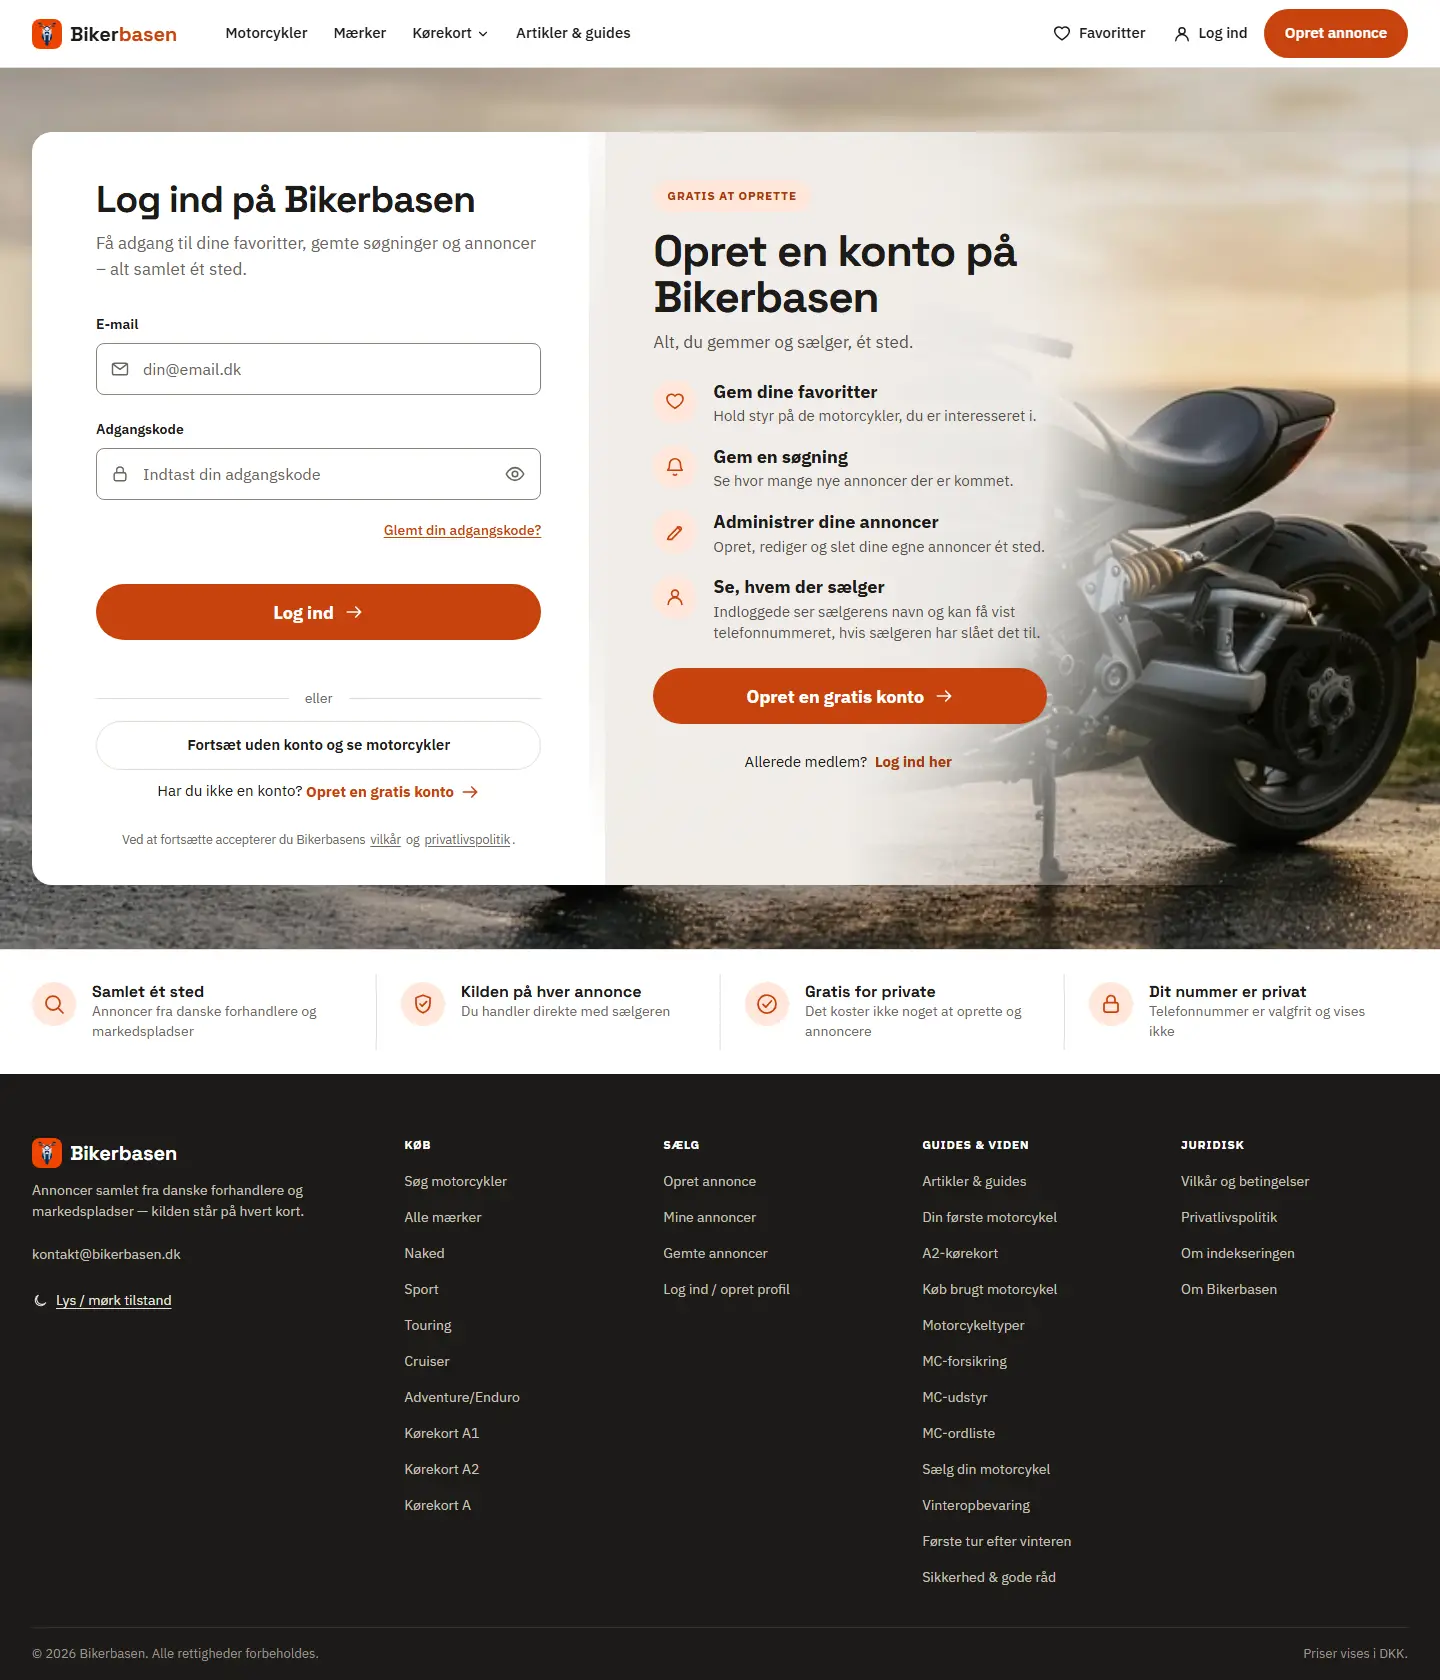
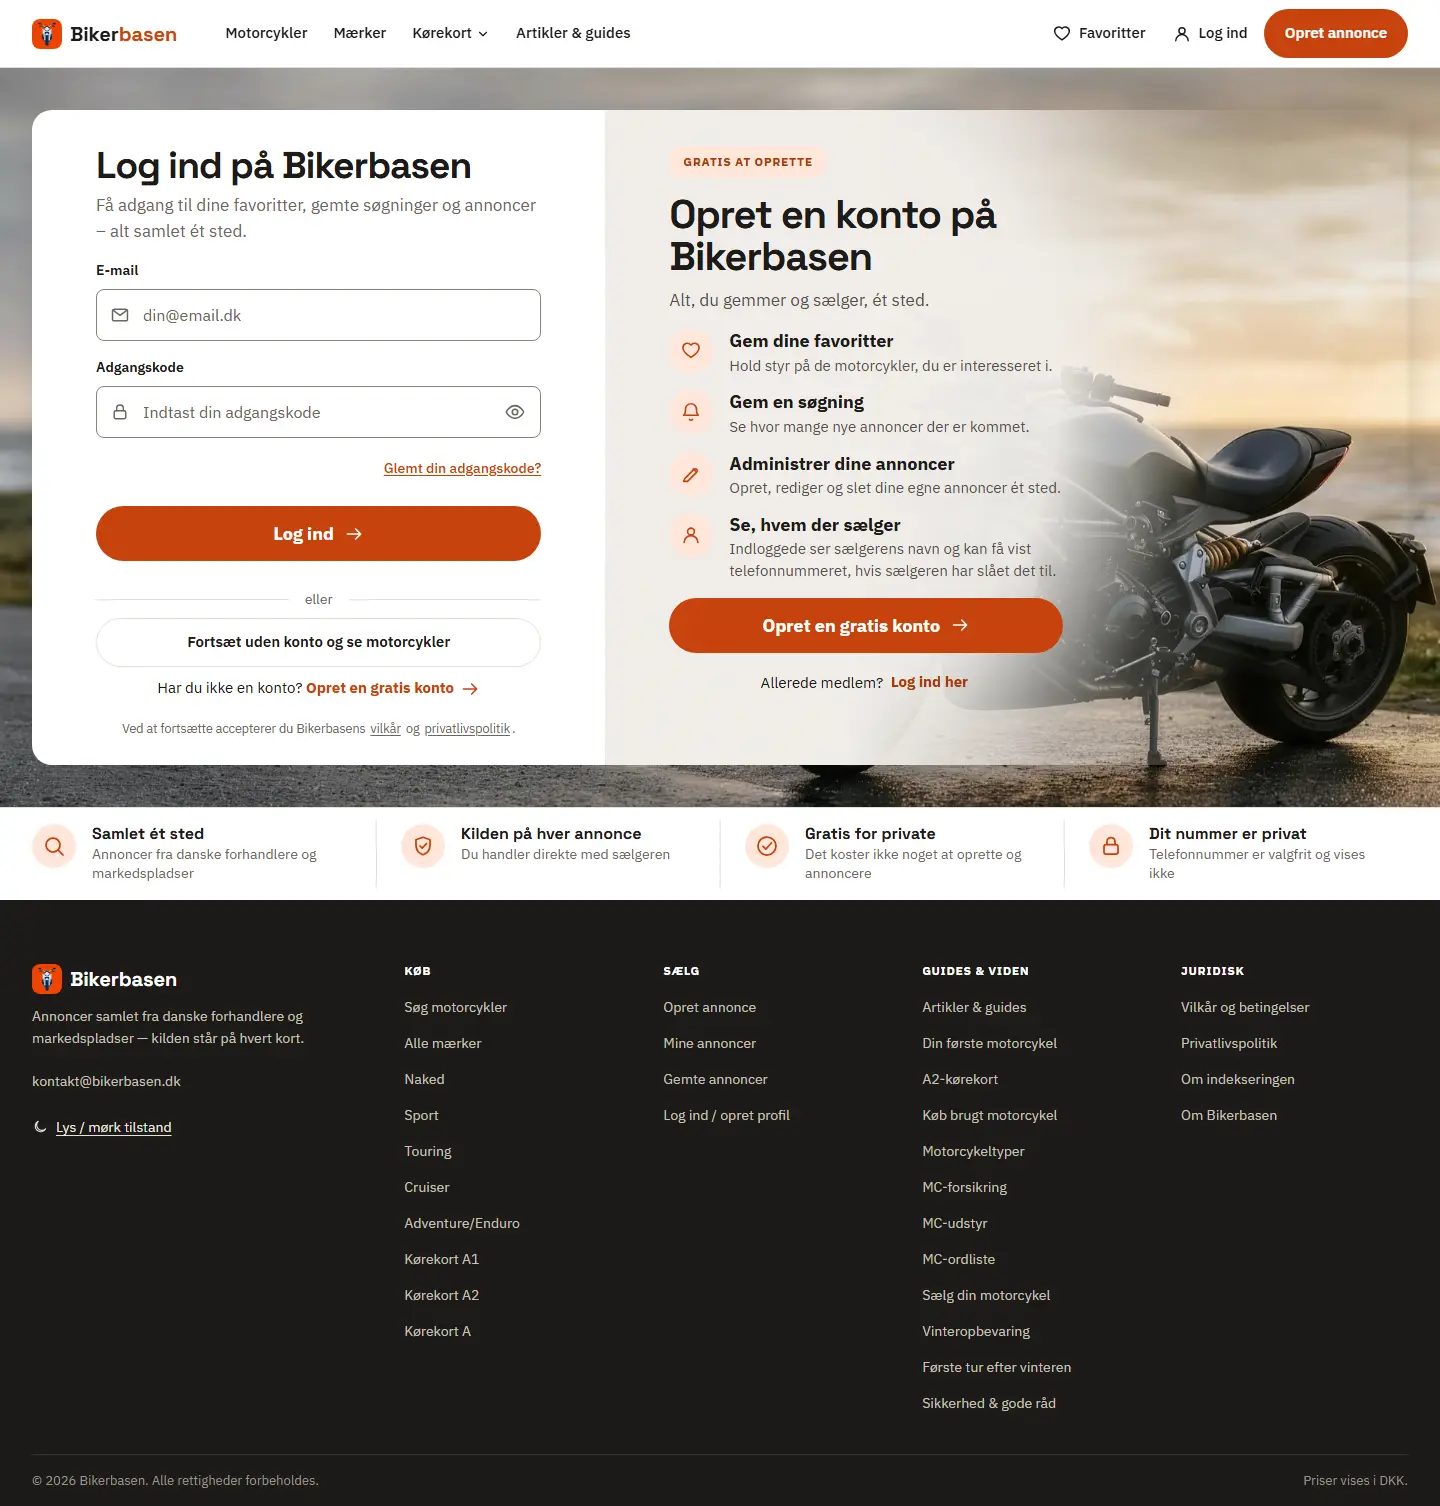
docs: agent5 iteration 2-3, billeder (5,4 MB)

diff --git a/docs/review/gauntlet/visual/agent5-brugere.md b/docs/review/gauntlet/visual/agent5-brugere.md
@@ -43,3 +43,35 @@ Grønt: w9-saelger 33, w7-funktion 34, login-fejl, mine-annoncer, favoritter, da
 
 ## Selv-score (ikke godkendelse; Critic vurderer)
 Guide ca. 4,2 · Login ca. 4,3 · Mine annoncer ca. 4,2.
+
+---
+
+# Iteration 2-3 (efter blind Critic: AFVIS 6 / 6,5 / 5,5)
+
+Critic-rapport: `docs/review/gauntlet/visual/critic-agent5.md` (i hovedrepoet). Billeder: `sbs-guide/mine/login.webp` (mockup | efter, 1440), `efter-guide-saelg-1440-{l,m}`, `efter-guide-saelg-390-m`, `efter-login-{1440-l,1440-m,390-l,390-m}`, `efter-mine-{1440-l,1440-m,390-l,390-m}`.
+
+## Acceptkriterier (iteration 2-3)
+K6 Guide-hero lysere/varmere (foto løftet, scrim kun bag tekst), fed H1, hvid tekst >= 4,5:1; hero <= 340 px ved 1440.
+K7 Brødtekst og indholdsfortegnelse flugter (samme højre kant); sticky mini-TOC i højre spalte (>= 1024 px) med aktivt afsnit (scroll-spy); mobil uændret sammenklappelig; >= 2 callouts og >= 2 fotos pr. guide; callouts kun fra guidens eget Kort fortalt.
+K8 Login 1440x900: hele kortet OG fordelsstrimlen i første skærm, skarpt foto (ingen opskalering af 1600 px-filen), fed H1; stadig ingen social login/120.000+/beskeder.
+K9 Mine annoncer: 5 statistikkort (kun ægte: aktive, kladde, favoritter, på pause, søgeagenter) med tal >= 32 px; tællere med ikon; ægte tip-liste i stedet for pynteform; header "Min profil" + "Log ud" (ikke "Navn · Log ud"); privat dashboard uden blindgyde; `?tab=aktive|kladder|annoncer|gemte|soegeagenter|profil` åbner den rette fane.
+K10 0 overflow 320-1440 lys+mørk, tap-mål >= 40, smoke strikt CLS < 0,05.
+
+## Afvigelser fundet (iteration 2) og status
+1 Hero mørk og underbelyst (guide, mine): foto `brightness(1.2) saturate(1.1)` + lysere scrim på desktop; mobil bevarer kraftigere scrim (kontrast) — LUKKET (mockuppens lyse stemning nås ikke fuldt: mangler rytterfoto).
+2 Brødtekst 840 vs TOC 935 / tom højre kolonne: artikel nu fuld kolonnebredde (afsnit 72-76 tegn), sticky mini-TOC som sidste modul i højre spalte — LUKKET.
+3 Kun sektion 1 havde moduler: 2 callouts ("Vigtigt", "Tip", hentet ordret fra guidens Kort fortalt, placeret i den sektion med størst ordoverlap) + 2 fotos pr. guide (guidens kortbillede og forsidefotoet) — LUKKET.
+4 Login: sløret foto (1600 px-filen blev opskaleret ca. 1,9x): `sizes="(min-width:960px) 200vw"` vælger 2560-filen, mindre zoom, hele motorcyklen i højre panel; kortet 753 -> 655 px; strimlen slutter ved 900 px ved 1440x900 — LUKKET.
+5 Mine annoncer: flade kort, tællere uden ikoner, "Test · Log ud", pladsholder-illustration, blindgyde i dashboard, `?tab=` — LUKKET (5. kort "På pause" i stedet for "Beskeder"; "Udløber om N dage" findes ikke i data og er IKKE opdigtet).
+6 Fund i egen test: 15 px overflow ved 320 px fra de nye tællere (w9-test fangede det) — rettet (tællere ombrydes under 520 px).
+
+## Ændrede/nye filer (iteration 2-3)
+`scripts/build-guides.js` (`guideTillaeg`, mini-TOC), `css/p-guides.css`, `js/guides.js` (scroll-spy også i mini-TOC), `css/p-login.css`, `login.html` (srcset sizes), `css/p-dashboard.css`, `mine-annoncer.html`, `js/mine-annoncer.js`, `js/dashboard.js` (privat -> mine-annoncer), `js/components.js` (header: "Min profil" + eget "Log ud"; fil ejes af Agent 1, minimal ændring i `updateAuthSlot`), `js/w14-brugere.test.js` (22 tests), kritisk-manifest, regenererede sider.
+
+## Måling
+`js/w14-brugere.test.js` 22/22, `js/w9-saelger.test.js` 33/33, w7-funktion 34, guides 85, w12-guides, w10-discovery, w12-kritisk 18, info-tekst 21, smoke-browser strikt `--cls 0.05` 190 målinger (19 sider x 320/390/768/1024/1440 x lys+mørk) 0 fejl/0 advarsler. `npm run gate`: trin 1, 3-6, 8 grønne. Trin 2 rødt KUN pga. `js/w10-fejl.test.js` (CLS 0,076-0,087 på model-honda-nx-500 og type-cruiser, 390 lys, `fa-soeg-vrap`/`fa-panel` = facet-sidernes søgepanel; filer jeg ikke har rørt og som ikke indlæser mine CSS-filer). Trin 7: `js/w14-brugere.test.js` mangler i package.json (Orchestratoren).
+
+## Ærlig "ligner mockuppen: x/10"
+- Artikel 7,3/10: komposition (hero + overlappende Kort fortalt, bred TOC, sektioner med moduler, tvivl-kort, sticky sidebjælke) er tæt; mangler lys rytterhero, forfatterfoto og type-kort på alle sektioner (fotos er guidens kortbillede + forsidefoto).
+- Login 8/10: kort + strimmel i første skærm, fade til foto, hel motorcykel, tillidsstrimmel; mangler rytter og håndskrevne captions, social login og 120.000+ (bevidst).
+- Mine annoncer 7,3/10: rigere kort med ikon og store tal, tællere med ikoner, opret-strimmel, hjælpekort, lavere lys hero; mangler Beskeder/visningsgraf/Udløber (findes ikke) og grøn farve (brand).
